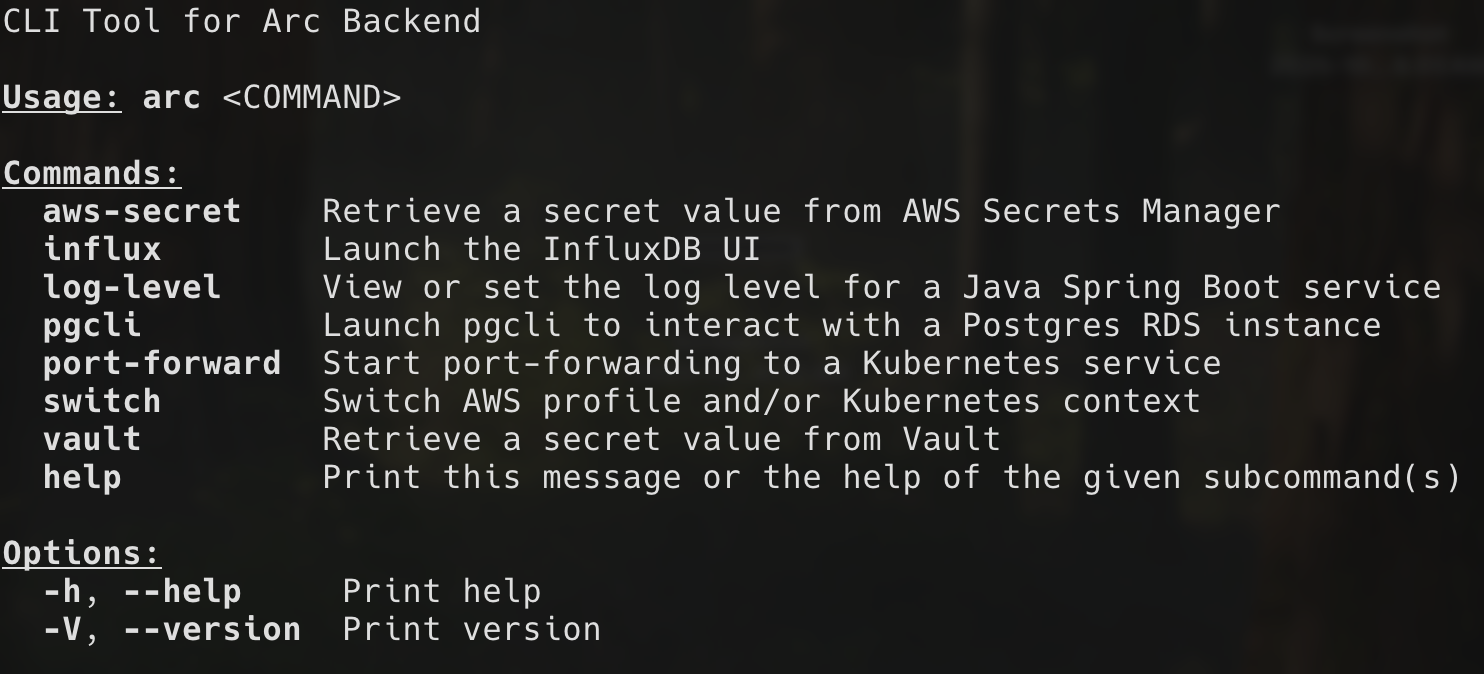
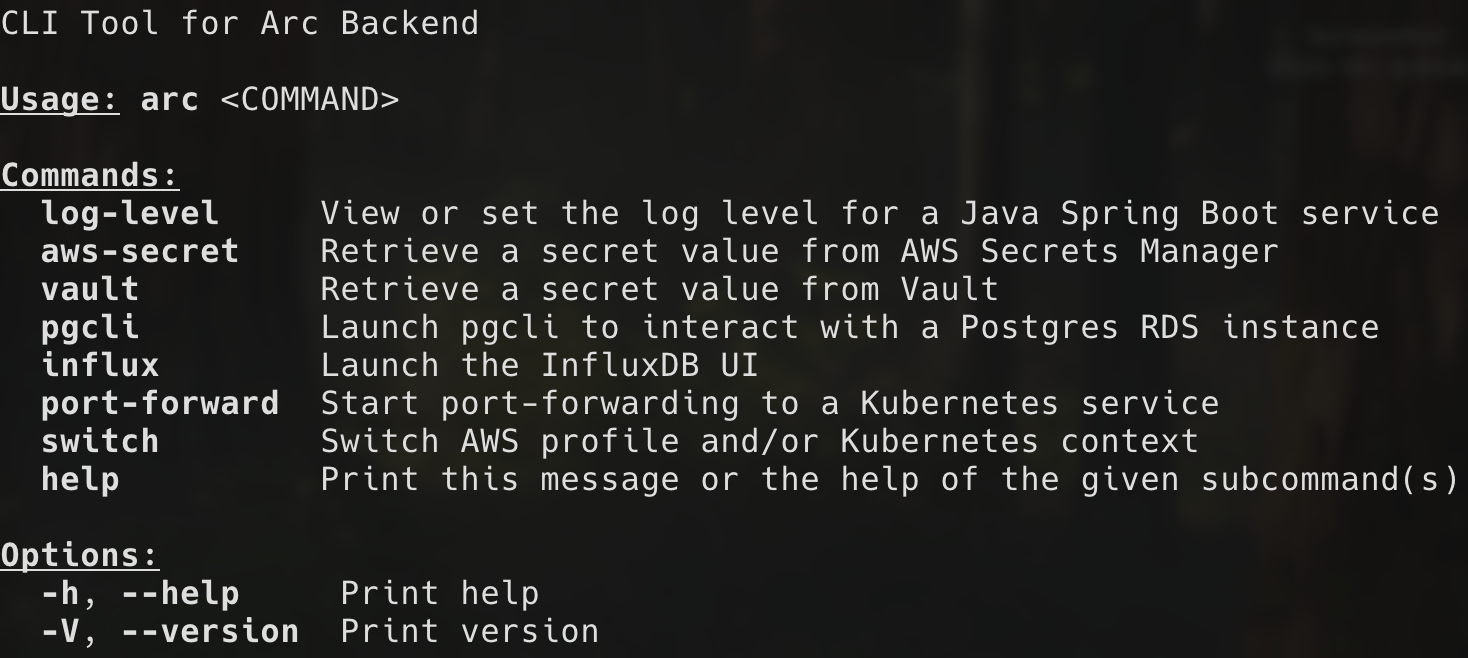
Update README and reset version

diff --git a/src/lib.rs b/src/lib.rs
@@ -19,13 +19,6 @@ pub struct Args {
 
 #[derive(Subcommand, Clone, Debug, PartialEq, Eq, Hash)]
 enum ArcCommand {
-    #[command(about = "Retrieve a secret value from AWS Secrets Manager")]
-    AwsSecret {
-        #[arg(short, long, help = "Name of the secret to retrieve (if omitted, will prompt)")]
-        name: Option<String>,
-    },
-    #[command(about = "Launch the InfluxDB UI")]
-    Influx,
     #[command(about = "View or set the log level for a Java Spring Boot service")]
     LogLevel {
         #[arg(short, long, help = "Service name, e.g. 'metrics' (if omitted, will prompt)")]
@@ -40,8 +33,23 @@ enum ArcCommand {
         #[arg(short, long, help = "Just print the current log level")]
         display_only: bool,
     },
+    #[command(about = "Retrieve a secret value from AWS Secrets Manager")]
+    AwsSecret {
+        #[arg(short, long, help = "Name of the secret to retrieve (if omitted, will prompt)")]
+        name: Option<String>,
+    },
+    #[command(about = "Retrieve a secret value from Vault")]
+    Vault {
+        #[arg(short, long, help = "Path to secret to retrieve (if omitted, will prompt)")]
+        path: Option<String>,
+
+        #[arg(short, long, help = "Field within secret to retrieve (defaults to entire secret)")]
+        field: Option<String>,
+    },
     #[command(about = "Launch pgcli to interact with a Postgres RDS instance")]
     Pgcli,
+    #[command(about = "Launch the InfluxDB UI")]
+    Influx,
     #[command(about = "Start port-forwarding to a Kubernetes service")]
     PortForward {
         #[arg(short, long, help = "Service name, e.g. 'metrics' (if omitted, will prompt)")]
@@ -64,14 +72,6 @@ enum ArcCommand {
         #[arg(short, long, help = "Whether to skip if already set (defaults to false)")]
         use_current: bool,
     },
-    #[command(about = "Retrieve a secret value from Vault")]
-    Vault {
-        #[arg(short, long, help = "Path to secret to retrieve (if omitted, will prompt)")]
-        path: Option<String>,
-
-        #[arg(short, long, help = "Field within secret to retrieve (defaults to entire secret)")]
-        field: Option<String>,
-    }
 }
 
 impl Args {

diff --git a/README.md b/README.md
@@ -21,26 +21,47 @@ The main benefits of the Arc CLI are:
 ### Option 1: From Source
 1. Install Rust (from https://www.rust-lang.org/tools/install)
    ```bash
-   $ curl --proto '=https' --tlsv1.2 https://sh.rustup.rs -sSf | sh
+   curl --proto '=https' --tlsv1.2 https://sh.rustup.rs -sSf | sh
    ```
 2. Download the source code:
    ```bash
-   $ git clone git@github.com:bobchevalieragility/arc-cli.git
+   git clone git@github.com:bobchevalieragility/arc-cli.git
    ```
 3. From the root of the project, build and install the binary:   
    ```bash
-   $ cargo install --path .
+   cargo install --path .
    ```
-4. Create `~/.arc-cli/` and copy the wrapper script into that directory:  
+4. Install the wrapper script:  
    ```bash
-   $ mkdir ~/.arc-cli
-   $ cp scripts/arc.sh ~/.arc-cli/arc.sh
+   mkdir ~/.arc-cli
+   cp scripts/arc.sh ~/.arc-cli/arc.sh
    ```
 5. Source the wrapper script from your shell config file (.zshrc, .bashrc, etc.):
    ```bash
-   $ echo 'source ~/.arc-cli/arc.sh' >> ~/.zshrc
+   echo 'source ~/.arc-cli/arc.sh' >> ~/.zshrc
    ```
 ### Option 2: Pre-compiled Binaries
+1. Choose the binary type that is appropriate for your OS:
+   - MacOS ARM64: `arc-macos-arm64`
+   - MacOS x86_64: `arc-macos-amd64`
+   - Linux x86_64: `arc-linux-amd64`
+2. Download and install the latest version of the binary: 
+   ```bash
+   curl -LO https://github.com/bobchevalieragility/arc-cli/releases/latest/download/arc-macos-arm64
+   chmod +x arc-macos-arm64
+   sudo mv arc-macos-arm64 /usr/local/bin/arc
+   ```
+3. Download and install the latest version of the wrapper script:
+   ```bash
+   curl -LO https://github.com/bobchevalieragility/arc-cli/releases/latest/download/arc.sh
+   chmod +x arc.sh
+   mkdir ~/.arc-cli
+   mv arc.sh ~/.arc-cli/arc.sh
+   ```
+4. Source the wrapper script from your shell config file (.zshrc, .bashrc, etc.):
+   ```bash
+   echo 'source ~/.arc-cli/arc.sh' >> ~/.zshrc
+   ```
 
 ## Development
 
